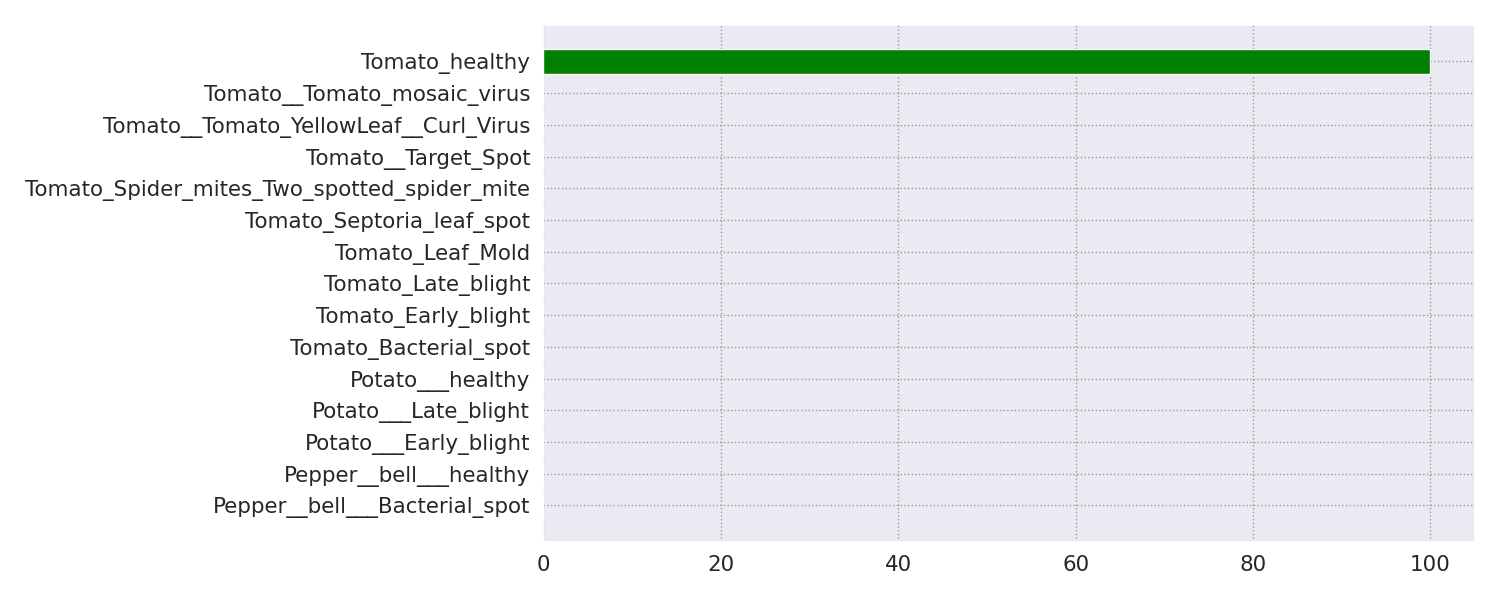
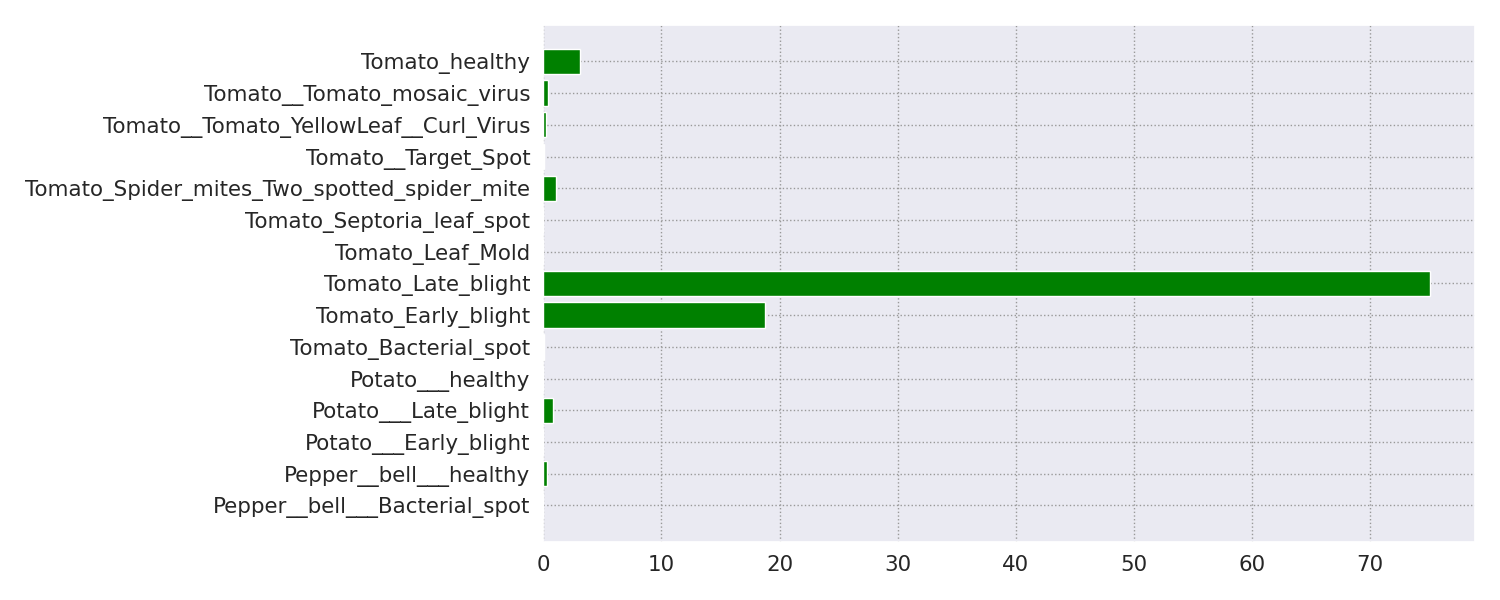
some ui changes

diff --git a/templates/home.html b/templates/home.html
@@ -16,7 +16,7 @@
             border-color:#0066A2;
             height:50px;
             width:100px;
-            font:bold15px arial,sans-serif;
+            font:bold10px arial,sans-serif;
             text-shadow:none;
        }
     </style>
@@ -30,15 +30,17 @@
     <div id="heading" style="white-space:nowrap">
 
         <div id="image" style=" margin-top:60px">
-            <img src="../static/images/leaf-logo-300x300.png" alt=logo height="42" width="42"/>
+            <img src="../static/images/leaf-logo-300x300.png" alt=logo height="92" width="92"/>
         </div>
     
-        <div id="texts" style="display:inline; white-space:nowrap; color:purple; font-size: 40px;"> 
+        <div id="texts" style="display:inline; white-space:nowrap; color:purple; font-size: 50px;"> 
             Snap The Leaf 
         </div>
     
     </div>
 
+    <br>
+    <br>
     <br>
     
     <form id="upload-file" method="post" enctype="multipart/form-data" action="predict">
@@ -54,7 +56,16 @@
          <br>
          <br>
          <br>
-         <input type="submit" value="Predict the disease">
+         <br>
+         <input style="background-color:rgb(85, 7, 85); 
+         border: none;
+         color: rgb(255, 255, 255);
+         border-radius: 9px;
+         text-decoration: none;
+         font-family:sans-serif;
+         font-size: 28px;
+         margin: 4px 2px;
+         cursor: pointer" type="submit" value="Predict the disease">
 
     </form>
 

diff --git a/templates/resulting.html b/templates/resulting.html
@@ -8,17 +8,17 @@
 </head>
 <body>
     
-    <div style="color:rgb(191, 231, 218); background-color:rgb(53, 49, 49); height: 60px;width: 1450px;text-align: center;"> 
+    <div style="color:rgb(255, 255, 255); background-color:rgb(80, 3, 104); height: 60px;width: 1450px;text-align: center;"> 
         <span style="text-align:center ; font-size:50px"> Result DashBoard </span>
     </div>
 
     <h3 id="result" align="center" style="margin-top :30px">
-        The name of the disease is : <span style="color:red"> {{result}} </span>
+        The detected disease is : <span style="color:red"> {{result}} </span>
 
     </h3>
 
     <div style="margin-top: 40px; margin-left: 90px;margin-right: 50px;">
-        <h4> The output of the softmax layer is shown in the following graph</h4>
+        <h4> The following chart shows the probability considered by the AI while making the decision: </h4>
 
         <img src={{img_url}} alt="Chart" height="450px" width="990px">
     </div>

diff --git a/app.py b/app.py
@@ -21,18 +21,11 @@ sns.set_context("notebook", font_scale=1.4, rc={"lines.linewidth": 2.5})
 # Flask utils
 from flask import Flask, redirect, url_for, request, render_template
 from werkzeug.utils import secure_filename
-# from gevent.pywsgi import WSGIServer
+
 
 # Define a flask app
 app = Flask(__name__)
 
-# Model saved with Keras model.save()
-
-# You can also use pretrained model from Keras
-# Check https://keras.io/applications/
-
-model =tf.keras.models.load_model('resnet.h5',compile=False)
-print('Model loaded. Check http://127.0.0.1:5000/')
 
 
 def model_predict(img_path, model):
@@ -63,7 +56,7 @@ def proceedhome():
 def upload():
     if request.method == 'POST':
         
-        # Get the file from post request
+        
         f = request.files['file']
         select_pred = request.form.get('predictor')
 
@@ -75,17 +68,9 @@ def upload():
             basepath, 'uploads', secure_filename(f.filename))
         f.save(file_path)
 
-        # Make prediction
-        # preds = model_predict(file_path, model)
-        # print(preds[0])
-        objtst= Hlw()
-        ans=objtst.printa()
+
 
         ### Testing Strategy Pattern 
-
-        dnetobject = DenseNetPredictor()
-        predicament = dnetobject.ml_predict(file_path)
-        print("Show predicament : ",predicament)
 
         ######## Concrete Predictor #########################
         mapping={"resnet": ResNetPredictor(),
@@ -98,19 +83,19 @@ def upload():
 
 
         ### testing context
-        ctuni66=Context(predictor_object)
-        preds = ctuni66.nn_predict(file_path)
+        context_predictor=Context(predictor_object)
+        preds = context_predictor.nn_predict(file_path)
         print("Show context predictions: ",preds)
 
         # x = x.reshape([64, 64]);
-        global disease_class
+        
 
         disease_class = ['Pepper__bell___Bacterial_spot', 'Pepper__bell___healthy', 'Potato___Early_blight',
                          'Potato___Late_blight', 'Potato___healthy', 'Tomato_Bacterial_spot', 'Tomato_Early_blight',
                          'Tomato_Late_blight', 'Tomato_Leaf_Mold', 'Tomato_Septoria_leaf_spot',
                          'Tomato_Spider_mites_Two_spotted_spider_mite', 'Tomato__Target_Spot',
                          'Tomato__Tomato_YellowLeaf__Curl_Virus', 'Tomato__Tomato_mosaic_virus', 'Tomato_healthy']
-        global a 
+        
         a = 100*preds[0]
         by_class = dict(zip(disease_class,a))
         print(by_class)

diff --git a/concrete.py b/concrete.py
@@ -5,7 +5,7 @@ import numpy as np
 
 class ResNetPredictor(Strategy):
 
-    model =tf.keras.models.load_model('resnet.h5',compile=False)
+    model =tf.keras.models.load_model('resnet2.h5',compile=False)
 
 
     def ml_predict(self,image_path):
